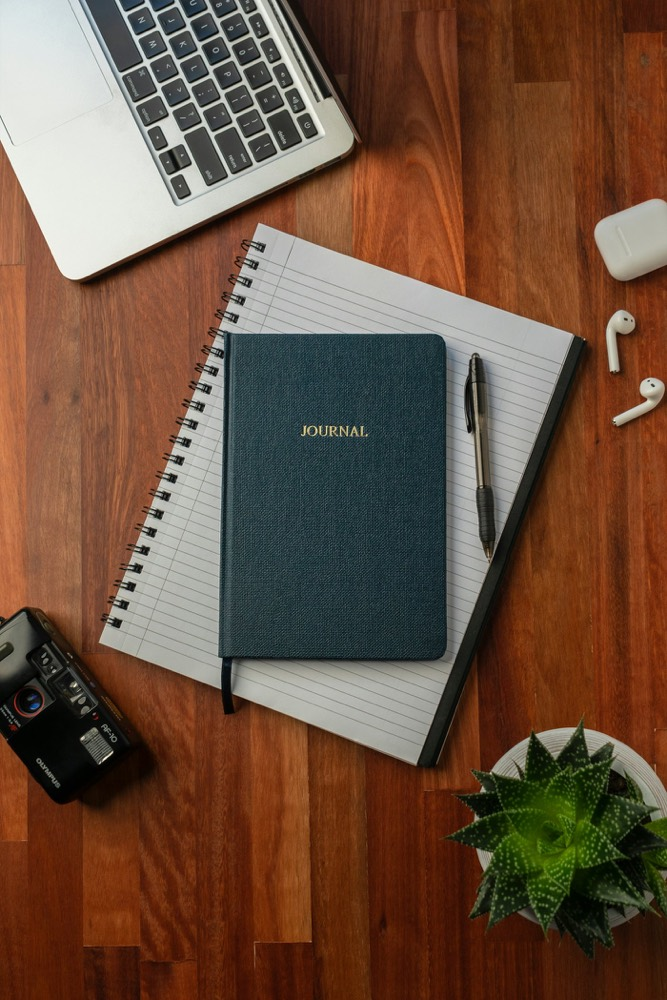
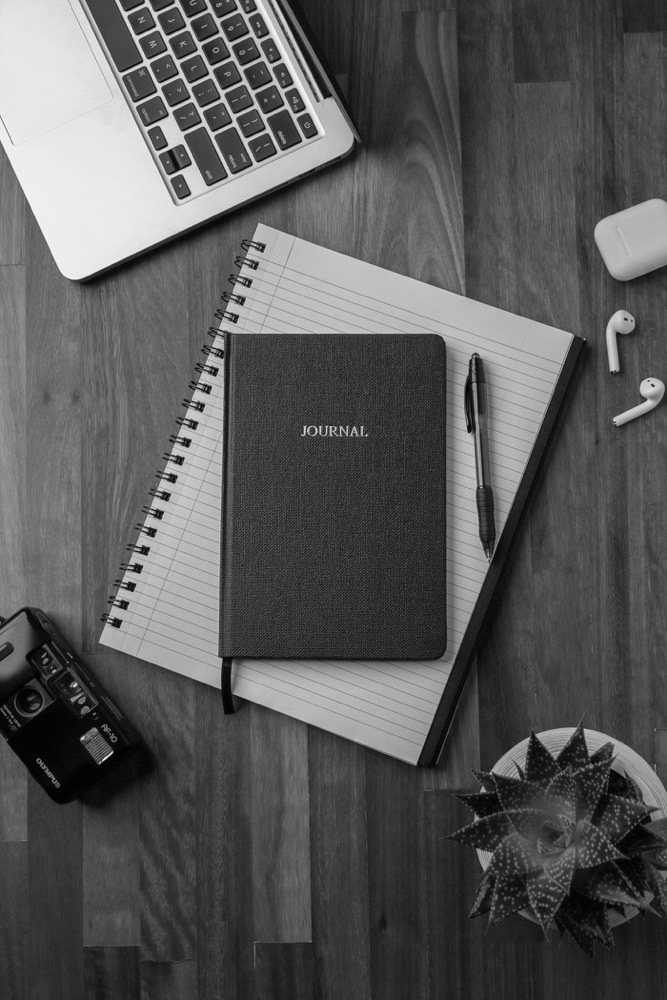
Schwarz-Weiß-Bildstil und ruhiger Hero
- Neue S/W-Fotos im Referenzstil (Low-Key, Gegenlicht, Körnung):
  Hero (Schimmel über Boxentür), Über uns (Reiterin am Zaun),
  Kategorie Marketing & Design, Rider und Horse Portfolio
- Laptop-, Smartphone- und Notizbuchfotos in Graustufen umgewandelt;
  Oxblood nur noch als Akzent im Mockup auf dem Display
- Mockup-Karte aus dem Hero entfernt, Bildausschnitte angepasst
- Bildnachweis und CLAUDE.md (Bildstil) aktualisiert;
  vorherige Farbfotos ins Archiv verschoben

diff --git a/website/index.html b/website/index.html
@@ -44,8 +44,7 @@
         <p class="hero__audience label">Für Berufsreiter · Bereiter · Trainer · Pferdebetriebe</p>
       </div>
       <div class="hero__visual">
-        <figure class="photo hero__photo"><img src="assets/images/fotos/hero-stiefel-steigbuegel.jpg" alt="Reitstiefel im Steigbügel, Schabracke mit Wappen auf einem Fuchs" width="1400" height="933"><figcaption>Symbolbild · Foto: Philippe Oursel / Unsplash</figcaption></figure>
-        <div class="hero__product"><div class="mk mk-manage"><div class="scr"><i class="sb"></i><div class="mn"><b class="mh"></b><div class="st"><i></i><i></i><i></i></div><div class="bars"><i></i><i></i><i></i><i></i><i></i><i></i><i></i></div></div></div><div class="ph"><b><i></i><i class="l"></i><i class="l"></i><i class="l"></i></b></div></div><span>Mockup · Demo</span></div>
+        <figure class="photo hero__photo"><img src="assets/images/fotos/hero-schimmel-boxentuer.jpg" alt="Schimmel schaut mit gesenktem Kopf über eine dunkle Boxentür, Schwarz-Weiß" width="1066" height="1600"><figcaption>Symbolbild · Foto: Artur Aldyrkhanov / Unsplash</figcaption></figure>
       </div>
       <ul class="hero__values">
         <li><b>Organisieren</b><span>Betrieb, Turniere und Abläufe an einem Ort planen.</span></li>
@@ -69,7 +68,7 @@
           <span class="textlink">Produkte ansehen</span>
         </a>
         <a class="cat cat--design" href="#shop" data-filter="design">
-          <div class="cat__plate"><img class="plate__img" src="assets/images/fotos/kategorie-design-reiterin.jpg" alt="Reiterin auf einem dunklen Pferd, Detail in Schwarz-Weiß" width="1000" height="666" loading="lazy"></div>
+          <div class="cat__plate"><img class="plate__img" src="assets/images/fotos/kategorie-design-frau-hut.jpg" alt="Frau mit Hut lehnt das Gesicht an das Maul eines Pferdes, Schwarz-Weiß" width="666" height="1000" loading="lazy"></div>
           <div class="cat__body"><div><h3>Marketing &amp; Design</h3><p>Vorlagen für Sponsoren, Pferdeverkauf und Social Media.</p></div><span class="cat__count label">3 Produkte</span></div>
           <span class="textlink">Produkte ansehen</span>
         </a>
@@ -113,7 +112,7 @@
           </div>
         </article>
         <article class="product" data-category="design">
-          <div class="product__plate"><img class="plate__img" src="assets/images/fotos/rider-portfolio-springreiter.jpg" alt="Springreiter auf einem Schimmel beim Sprung über ein Hindernis" width="1000" height="825" loading="lazy"><span class="product__note">Symbolbild</span></div>
+          <div class="product__plate"><img class="plate__img" src="assets/images/fotos/rider-portfolio-reiterin-sw.jpg" alt="Reiterin im Sattel, Detail mit Schabracke und Reitstiefel, Schwarz-Weiß" width="1000" height="666" loading="lazy"><span class="product__note">Symbolbild</span></div>
           <div class="product__body">
             <p class="product__meta"><span class="label">Marketing &amp; Design</span><span class="product__format">Canva-Vorlage</span></p>
             <h3>Rider Portfolio</h3>
@@ -126,7 +125,7 @@
           </div>
         </article>
         <article class="product" data-category="design">
-          <div class="product__plate"><img class="plate__img" src="assets/images/fotos/horse-portfolio-fuchs.jpg" alt="Fuchs schaut aus dem Fenster seiner Box" width="666" height="1000" loading="lazy"><span class="product__note">Symbolbild</span></div>
+          <div class="product__plate"><img class="plate__img" src="assets/images/fotos/horse-portfolio-stall.jpg" alt="Pferdekopf mit Auge in Nahaufnahme im dunklen Stall, Gegenlicht, Schwarz-Weiß" width="666" height="1000" loading="lazy"><span class="product__note">Symbolbild</span></div>
           <div class="product__body">
             <p class="product__meta"><span class="label">Marketing &amp; Design</span><span class="product__format">Canva-Vorlage</span></p>
             <h3>Horse Portfolio</h3>
@@ -199,7 +198,7 @@
 
     <!-- 7) ÜBER EQUIBILL (fiktives Unternehmen) -->
     <section class="section about" id="ueber-uns" aria-labelledby="about-titel">
-      <figure class="photo about__photo"><img src="assets/images/fotos/ueber-uns-stallgasse.jpg" alt="Stallgasse in Schwarz-Weiß, ein Pferd schaut aus der Box, am Ende ein offenes Tor" width="1400" height="1990" loading="lazy"><figcaption>Symbolbild · Foto: Paul Millage / Unsplash</figcaption></figure>
+      <figure class="photo about__photo"><img src="assets/images/fotos/ueber-uns-reiterin-zaun.jpg" alt="Reiterin von hinten im Schritt an einem Holzzaun entlang, Schwarz-Weiß" width="900" height="1600" loading="lazy"><figcaption>Symbolbild · Foto: Philippe Oursel / Unsplash</figcaption></figure>
       <div>
         <span class="label label--accent">Über EquiBill</span>
         <h2 id="about-titel">Wer vom Pferdesport lebt, führt ein Unternehmen.</h2>

diff --git a/website/css/style.css b/website/css/style.css
@@ -100,11 +100,9 @@ a{color:inherit;text-decoration:none}
 .hero__lead{margin:20px 0 0;max-width:46ch;font-size:17px}
 .hero__cta{display:flex;flex-wrap:wrap;align-items:center;gap:20px 28px;margin-top:30px}
 .hero__audience{margin:30px 0 0;opacity:.65}
-.hero__visual{position:relative;padding-bottom:70px}
+.hero__visual{position:relative}
 .hero__photo figcaption{top:12px;bottom:auto}
 .hero__photo{aspect-ratio:4/5;background:radial-gradient(70% 50% at 35% 30%,#e9c9c0,transparent 70%),linear-gradient(170deg,#b99b92,#4a2d2c 80%)}
-.hero__product{position:absolute;left:-4%;bottom:0;width:62%;aspect-ratio:4/3;background:var(--blush);border:6px solid var(--ivory);box-shadow:0 22px 44px -22px rgba(21,18,19,.5)}
-.hero__product span{position:absolute;right:8px;bottom:8px;z-index:3;font:500 8.5px/1.3 var(--sans);letter-spacing:.14em;text-transform:uppercase;background:rgba(243,239,232,.9);padding:4px 6px}
 .hero__values{list-style:none;margin:0;padding:0;display:grid;border-top:1px solid var(--ink)}
 .hero__values li{padding:20px 0;border-bottom:1px solid rgba(21,18,19,.22)}
 .hero__values b{display:block;font:italic 400 28px/1 var(--serif);margin-bottom:6px}
@@ -157,7 +155,8 @@ a{color:inherit;text-decoration:none}
 /* ---------- Echte Fotos (Unsplash, Symbolbilder; Nachweis: assets/images/fotos/BILDNACHWEIS.txt) ---------- */
 /* Fotos in Hero und Über uns füllen die Bildfläche; die Körnung (.photo::before) liegt darüber */
 .photo>img{position:absolute;inset:0;width:100%;height:100%;object-fit:cover;display:block}
-.hero__photo>img{object-position:55% 50%}
+.hero__photo>img{object-position:50% 35%}  /* Kopf des Schimmels im oberen Bilddrittel halten */
+.about__photo>img{object-position:50% 6%}   /* Kopf der Reiterin im Bild halten (Hochformat wird oben angesetzt) */
 /* Produkt- und Kategoriebilder: Foto füllt die Fläche, Hover = sanfter Zoom */
 .product__plate,.cat__plate{container-type:size}
 .plate__img{position:absolute;inset:0;width:100%;height:100%;object-fit:cover;display:block}

diff --git a/CLAUDE.md b/CLAUDE.md
@@ -75,7 +75,7 @@ Die Designrichtung ist entschieden (24.11.2026): **Atelier, Variante A „Maison
 Alle Werte stammen aus den Designstudien und sind die **vorläufige Basis**. Kontrast (berechnet, WCAG): Ink auf Ivory 16,25:1, Oxblood auf Ivory 10,25:1, Blush auf Ink 12,04:1, Ink auf Blush 12,04:1. **Stone nicht für Text verwenden** (nur 1,77:1 auf Ivory). Weitere Paarungen vor dem Einsatz prüfen.
 
 - **Typografie:** hochkontrastige Didone (Didot / Bodoni 72) für Display, groß, mit kursivem Gegenspieler; Labels in Helvetica Neue Versalien mit weiter Laufweite (ca. +24 %); Nummern als „N°“. Umsetzung mit lokalen Schriftdateien mit offener Lizenz: Bodoni Moda (statt Didot) und Inter (statt Helvetica Neue), siehe Kap. 13; **keine Google Fonts**. Eine finale Hausschrift ist offen.
-- **Bildsprache:** Mittelformat-Look, Fensterlicht, warme Hauttöne, ruhige Porträts und Details (Hände, Zügel, Leder, Stangen im Streiflicht), Stillleben statt Action; Produkte als Packshots auf farbigen Flächen. **Fotos (Entscheidung 25.11.2026):** echte Fotos mit freier Lizenz (Unsplash-Lizenz, keine Unsplash+-Bilder) als **gekennzeichnete Symbolbilder**; jedes Foto mit Fotograf, Link und Lizenz in `website/assets/images/fotos/BILDNACHWEIS.txt`. Eigene Fotos sind langfristig vorzuziehen.
+- **Bildsprache:** Mittelformat-Look, Fensterlicht, warme Hauttöne, ruhige Porträts und Details (Hände, Zügel, Leder, Stangen im Streiflicht), Stillleben statt Action; Produkte als Packshots auf farbigen Flächen. **Bildstil (Entscheidung 25.11.2026):** hochwertige **Schwarz-Weiß-Fotografie** (Low-Key, Gegenlicht, Körnung, ruhige, intime Momente, Menschen eher von hinten/angeschnitten); auch Software-/Vorlagenfotos in S/W, Markenfarbe nur als Akzent (z. B. Mockup auf dem Display). **Fotos (Entscheidung 25.11.2026):** echte Fotos mit freier Lizenz (Unsplash-Lizenz, keine Unsplash+-Bilder) als **gekennzeichnete Symbolbilder**; jedes Foto mit Fotograf, Link und Lizenz in `website/assets/images/fotos/BILDNACHWEIS.txt`. Eigene Fotos sind langfristig vorzuziehen.
 - **Layout:** asymmetrisches 12-Spalten-Raster, überlappende Bilder, Headline über Bildkanten, Kategorien als Index-Liste, Produkte im versetzten Lookbook-Raster (kein gleichförmiges Kachelraster). Produktkarten rahmenlos mit „N°0x“, Name in Serif, Preis rechtsbündig, Hover als sanfter Zoom.
 - **Wortmarke (Idee):** EQUI—BILL in gesperrten Didone-Versalien, Mittelstrich in Akzentfarbe; Monogramm „EB“.
 - **Hell/Dunkel:** A ist der Standard. B kommt ergänzend zum Einsatz, z. B. für Unterseiten. Beide teilen Ink, Ivory und Blush und wirken dadurch verwandt. **Offen:** Welche Seiten dunkel gestaltet werden und wie der Wechsel aussieht. Bis zur Festlegung nicht innerhalb einer Seite mischen.
